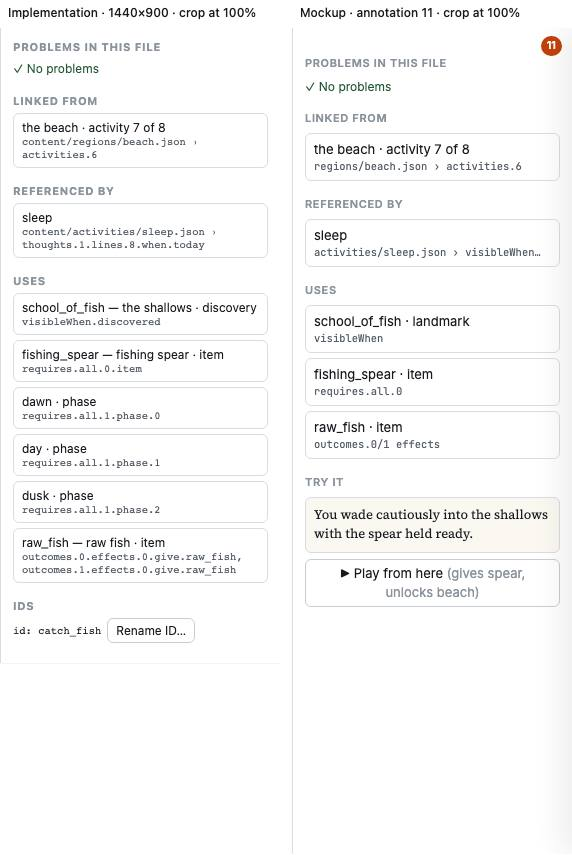
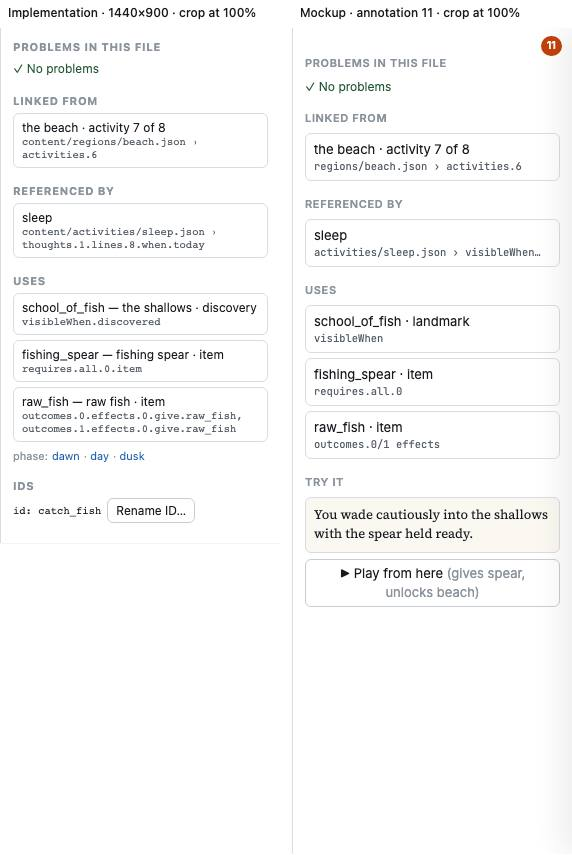
UX-06b review fixes: label in name, compact settings uses

Changed region(s): [[0.0, 0.4561, 0.4458, 0.669], [0.0594, 0.7298, 0.3269, 0.7602], [0.0297, 0.6994, 0.0594, 0.7298]]

diff --git a/src/studio/references.ts b/src/studio/references.ts
@@ -2,6 +2,11 @@ import { GAME_FLAGS } from "./game-flags";
 import { reservedReason } from "./reserved";
 import type { Document } from "./documents";
 import { identityFields, refKind, schemaFor, visitValue } from "./schema";
+/** Document collection names and the reference kinds used by their root definitions. */
+export const DOCUMENT_REFERENCE_KINDS: Readonly<Record<string, string>> = {
+  items: "item", activities: "activity", regions: "region", quests: "quest", buildings: "building",
+  recipes: "recipe", sites: "site", artwork: "artwork",
+};
 export interface Reference { file: string; path: string; kind: string; id: string; key?: boolean }
 export function getAt(raw: unknown, path: string): unknown {
   return path ? path.split(".").reduce<unknown>((value, key) => value && typeof value === "object" ? (value as Record<string, unknown>)[key] : undefined, raw) : raw;
@@ -52,7 +57,7 @@ export function referenceOptions(kind: string, documents: Document[], owner: Doc
       }
       values = [...actionIds(), ...tags, ...(kind === "action" ? ["explore", "travel"] : [])]; break;
     }
-    default: values = ids(({ item: "items", activity: "activities", region: "regions", quest: "quests", building: "buildings", recipe: "recipes", site: "sites", artwork: "artwork" } as Record<string, string>)[kind] ?? kind);
+    default: values = ids(Object.keys(DOCUMENT_REFERENCE_KINDS).find(key => DOCUMENT_REFERENCE_KINDS[key] === kind) ?? kind);
   }
   return [...new Set(values)].sort();
 }
@@ -73,7 +78,6 @@ export function references(documents: Document[]): Reference[] {
   return result;
 }
 export interface Identity { file: string; path: string; id: string; kind: string; key?: boolean; reserved?: string }
-const direct: Record<string, string> = { items: "item", activities: "activity", regions: "region", quests: "quest", buildings: "building", recipes: "recipe", sites: "site", artwork: "artwork" };
 /** Definitions, distinct from reference positions. Record-key identities retain their owner. */
 const identityIndexes = new WeakMap<Document[], Identity[]>();
 export function identities(documents: Document[]): Identity[] {
@@ -87,7 +91,7 @@ export function identities(documents: Document[]): Identity[] {
       if (typeof value !== "string") return;
       let kind: string | undefined;
       if (!key && path.split(".").at(-1) === "id") {
-        kind = path === "id" ? direct[document.kind] ?? "tree" :
+        kind = path === "id" ? DOCUMENT_REFERENCE_KINDS[document.kind] ?? "tree" :
           /^explore\.landmarks\.\d+\.id$/.test(path) ? "discovery" :
           /^cycle\.(start|collect)\.id$/.test(path) ? "step" :
           /^actions\.\d+\.id$/.test(path) ? "itemAction" :
@@ -141,12 +145,11 @@ export function referenceLabel(kind: string, id: string, documents: Document[]):
   let index = labelIndexes.get(documents);
   if (!index) {
     index = new Map();
-    const direct: Record<string, string> = { items: "item", activities: "activity", regions: "region", quests: "quest", buildings: "building", recipes: "recipe", sites: "site", artwork: "artwork" };
     const add = (kind: string, id: unknown, label: unknown) => {
       if (typeof id === "string" && typeof label === "string" && id !== label) index!.set(`${kind}:${id}`, `${id} — ${label}`);
     };
     for (const document of documents) {
-      add(direct[document.kind], document.id, document.label);
+      add(DOCUMENT_REFERENCE_KINDS[document.kind], document.id, document.label);
       const schema = schemaFor(document.path);
       if (schema) for (const field of identityFields(schema, document.raw)) {
         const parent = getAt(document.raw, field.path.split(".").slice(0, -1).join(".")) as Record<string, unknown> | undefined;
@@ -174,7 +177,8 @@ export function flagUsedBy(documents: Document[], id: string): Reference[] {
 export interface LinkedFrom extends Reference { label: string }
 export interface ReferenceGroup { name?: string; references: Reference[] }
 export interface DocumentUse { kind: string; id: string; paths: string[]; identity?: Identity }
-export interface DocumentContext { linkedFrom: LinkedFrom[]; referencedBy: ReferenceGroup[]; uses: DocumentUse[] }
+export interface SettingsUseGroup { kind: string; uses: DocumentUse[] }
+export interface DocumentContext { linkedFrom: LinkedFrom[]; referencedBy: ReferenceGroup[]; uses: DocumentUse[]; settingsUses: SettingsUseGroup[] }
 
 /** Per-document context; retains source positions and owner-scoped nested definitions. */
 export function documentContext(documents: Document[], document: Document): DocumentContext {
@@ -202,5 +206,16 @@ export function documentContext(documents: Document[], document: Document): Docu
     if (existing) existing.paths.push(ref.path);
     else uses.push({ kind, id: ref.id, paths: [ref.path], ...(identity ? { identity } : {}) });
   }
-  return { linkedFrom, referencedBy, uses };
+  const contentUses: DocumentUse[] = [];
+  const settingsUses: SettingsUseGroup[] = [];
+  for (const use of uses) {
+    if (!use.identity || !["content/game.json", "content/stats.json", "content/climate.json"].includes(use.identity.file)) {
+      contentUses.push(use);
+      continue;
+    }
+    const group = settingsUses.find(group => group.kind === use.kind);
+    if (group) group.uses.push(use);
+    else settingsUses.push({ kind: use.kind, uses: [use] });
+  }
+  return { linkedFrom, referencedBy, uses: contentUses, settingsUses };
 }

diff --git a/src/studio/shell/ContextRail.tsx b/src/studio/shell/ContextRail.tsx
@@ -1,6 +1,6 @@
 import type { ContentProblem } from "../../content";
 import type { Document } from "../documents";
-import { referenceLabel, type DocumentContext, type Identity, type Reference } from "../references";
+import { DOCUMENT_REFERENCE_KINDS, referenceLabel, type DocumentContext, type Identity, type Reference } from "../references";
 
 type Props = {
   documents: Document[]; context: DocumentContext; definitions: Identity[]; problems: ContentProblem[];
@@ -10,17 +10,13 @@ type Props = {
 export function ContextRail({ documents, context, definitions, problems, busy, openProblem, rename }: Props) {
   function incoming(ref: Reference, label?: string) {
     const source = documents.find(document => document.path === ref.file);
-    const kind = source && definitionsForSource(source);
+    const kind = source && DOCUMENT_REFERENCE_KINDS[source.kind];
     const sourceLabel = source ? referenceLabel(kind ?? source.kind, source.id, documents) : ref.file;
     return <button type="button" className="context-reference" key={`${ref.file}:${ref.path}`}
-      aria-label={`${ref.file} › ${ref.path}`} onClick={() => openProblem(ref.file, ref.path)}>
+      onClick={() => openProblem(ref.file, ref.path)}>
       <span>{label ?? (sourceLabel === source?.id ? source.label : sourceLabel)}</span>
       <code>{ref.file} › {ref.path}</code>
     </button>;
-  }
-  function definitionsForSource(source: Document) {
-    return ({ regions: "region", activities: "activity", items: "item", recipes: "recipe", buildings: "building",
-      quests: "quest", events: "event", sites: "site", artwork: "artwork" } as Record<string, string>)[source.kind];
   }
   return <aside className="context-rail" aria-label="Document context">
     <section><h3>Problems in this file</h3>
@@ -43,7 +39,17 @@ export function ContextRail({ documents, context, definitions, problems, busy, o
       return target ? <button type="button" className="context-reference" key={`${use.kind}:${use.id}:${target.file}`}
         onClick={() => openProblem(target.file, target.path)}>{content}</button>
         : <div className="context-reference" key={`${use.kind}:${use.id}`}>{content}</div>;
-    })}</section>
+    })}
+      {context.settingsUses.map(group => <div className="context-settings" key={group.kind}>
+        <span className="context-empty">{group.kind}:</span>{" "}{group.uses.map((use, index) => {
+          const target = use.identity;
+          return <span key={use.id}>{index > 0 && <span className="context-empty"> · </span>}
+            <button type="button" aria-label={`${use.id} · ${use.kind}`}
+              onClick={() => { if (target) openProblem(target.file, target.path); }}>{use.id}</button>
+          </span>;
+        })}
+      </div>)}
+    </section>
     <section className="context-identities" aria-label="Rename identities"><h3>IDs</h3>{definitions.map(id => <div key={id.path}>
       <code>{id.path}: {id.id}</code><button type="button" disabled={busy || !!id.reserved} title={id.reserved}
         aria-label={`Rename ${id.path}`} onClick={() => rename(id)}>Rename ID…</button>

diff --git a/tests/studio-browser/context-rail.spec.ts b/tests/studio-browser/context-rail.spec.ts
@@ -19,6 +19,9 @@ test("context links open Uses definitions and incoming source fields", async ({ 
   await expect(page.getByRole("textbox", { name: "id", exact: true })).toBeFocused();
   await openFish(page);
   const incoming = rail(page).getByRole("button").filter({ hasText: "content/activities/sleep.json ›" }).first();
+  await expect(incoming).toHaveAccessibleName(/^sleep content\/activities\/sleep.json › /);
+  await expect(rail(page).getByRole("button").filter({ hasText: /beach · activity/ }))
+    .toHaveAccessibleName(/the beach · activity \d+ of \d+ content\/regions\/beach.json › activities\.\d+/);
   const sourcePath = (await incoming.locator("code").innerText()).split(" › ")[1];
   await incoming.click();
   await expect(page.locator(".document-heading")).toContainText("content/activities/sleep.json");
@@ -103,4 +106,20 @@ test("area reference groups move intact to the rail with explicit empty states; 
     await page.getByRole("navigation").getByRole("button", { name, exact: true }).click();
     await expect(rail(page)).toHaveCount(0);
   }
+});
+
+
+test("settings Uses follow content cards in one compact line and open the definition", async ({ page }) => {
+  await openFish(page);
+  const uses = rail(page).locator("section").filter({ has: page.getByRole("heading", { name: "Uses", exact: true }) });
+  const cards = uses.locator(".context-reference");
+  await expect(cards).toHaveCount(3);
+  for (const [index, id] of ["school_of_fish", "fishing_spear", "raw_fish"].entries()) await expect(cards.nth(index)).toContainText(id);
+  await expect(uses.locator(".context-settings")).toHaveCount(1);
+  await expect(uses.locator(".context-settings")).toHaveText("phase: dawn · day · dusk");
+  expect(await uses.evaluate(element => [...element.children].map(child => child.className)))
+    .toEqual(["", "context-reference", "context-reference", "context-reference", "context-settings"]);
+  await rail(page).getByRole("button", { name: "day · phase", exact: true }).click();
+  await expect(page.locator(".document-heading")).toContainText("content/climate.json");
+  await expect(page.getByRole("region", { name: "File contents" })).toContainText("Field: phases.2.id");
 });

diff --git a/tests/studio/context.test.ts b/tests/studio/context.test.ts
@@ -30,6 +30,10 @@ it("classifies linked areas separately, retains incoming counters and groups out
   for (const [id, kind] of [["school_of_fish", "discovery"], ["fishing_spear", "item"], ["raw_fish", "item"]]) {
     expect(context.uses).toContainEqual(expect.objectContaining({ id, kind, identity: expect.objectContaining({ id, kind }) }));
   }
+  expect(context.uses.map(use => use.id)).toEqual(["school_of_fish", "fishing_spear", "raw_fish"]);
+  expect(context.settingsUses.map(group => ({ kind: group.kind, ids: group.uses.map(use => use.id) })))
+    .toEqual([{ kind: "phase", ids: ["dawn", "day", "dusk"] }]);
+  expect(context.settingsUses[0].uses.every(use => use.identity?.file === "content/climate.json")).toBe(true);
   const rawFish = context.uses.filter(use => use.id === "raw_fish");
   expect(rawFish).toHaveLength(1);
   expect(rawFish[0].paths.length).toBeGreaterThan(1);

diff --git a/src/studio/studio.css b/src/studio/studio.css
@@ -482,3 +482,6 @@ button.layout-failed { color: var(--studio-error); }
 }
 /* Leave a pixel below the static footer so fractional page heights cannot clip it. */
 @media (max-width: 760px) { .studio-shell { padding-bottom: 1px; } }
+.context-settings { display: flex; flex-wrap: wrap; align-items: baseline; gap: 0 4px; font-size: 11px; margin-top: 6px; }
+.context-settings button { border: 0; border-radius: 3px; padding: 1px 0; background: transparent; color: var(--studio-accent); font-size: 11px; }
+.context-settings button:hover { text-decoration: underline; }

diff --git a/docs/mockups/studio/README.md b/docs/mockups/studio/README.md
@@ -430,10 +430,13 @@ buttons with 10.5 px mono paths. Differences from the static mockup:
   columns remain deferred. Navigation/list widths and controls retain the existing UX-06a shell.
 - Below 1100 px the rail stacks after the editor and before Diagnostics, keeping every control
   reachable. Opening Preview stacks it at every width; at 1440 px the editor measures 680 px
-  (minimum required: 480 px). Preview’s existing panel remains the playtesting entry point;
+  (minimum required: 480 px). At ≥1100 px with Preview open, nav/list columns narrow to
+  170 / 210 px to preserve editor width.
+  Preview’s existing panel remains the playtesting entry point;
   there is no Try it section.
-- Uses shows every schema reference, including climate phases; paths are complete and wrap
-  instead of truncating. Repeated targets share one entry with all source paths. Unresolved
+- Uses keeps content targets as cards with complete wrapping paths; references resolved into
+  game/stats/climate settings appear afterward as one compact line per kind (e.g. phase: dawn · day · dusk).
+  Repeated content targets share one entry with all source paths. Unresolved
   targets are visible text marked “(unresolved)”. Labels use the existing reference resolver.
 - IDs preserves every rename control and reserved reason. The root ID is also available from
   More actions, between Duplicate and Delete. Forms/widgets retain their existing markup.
